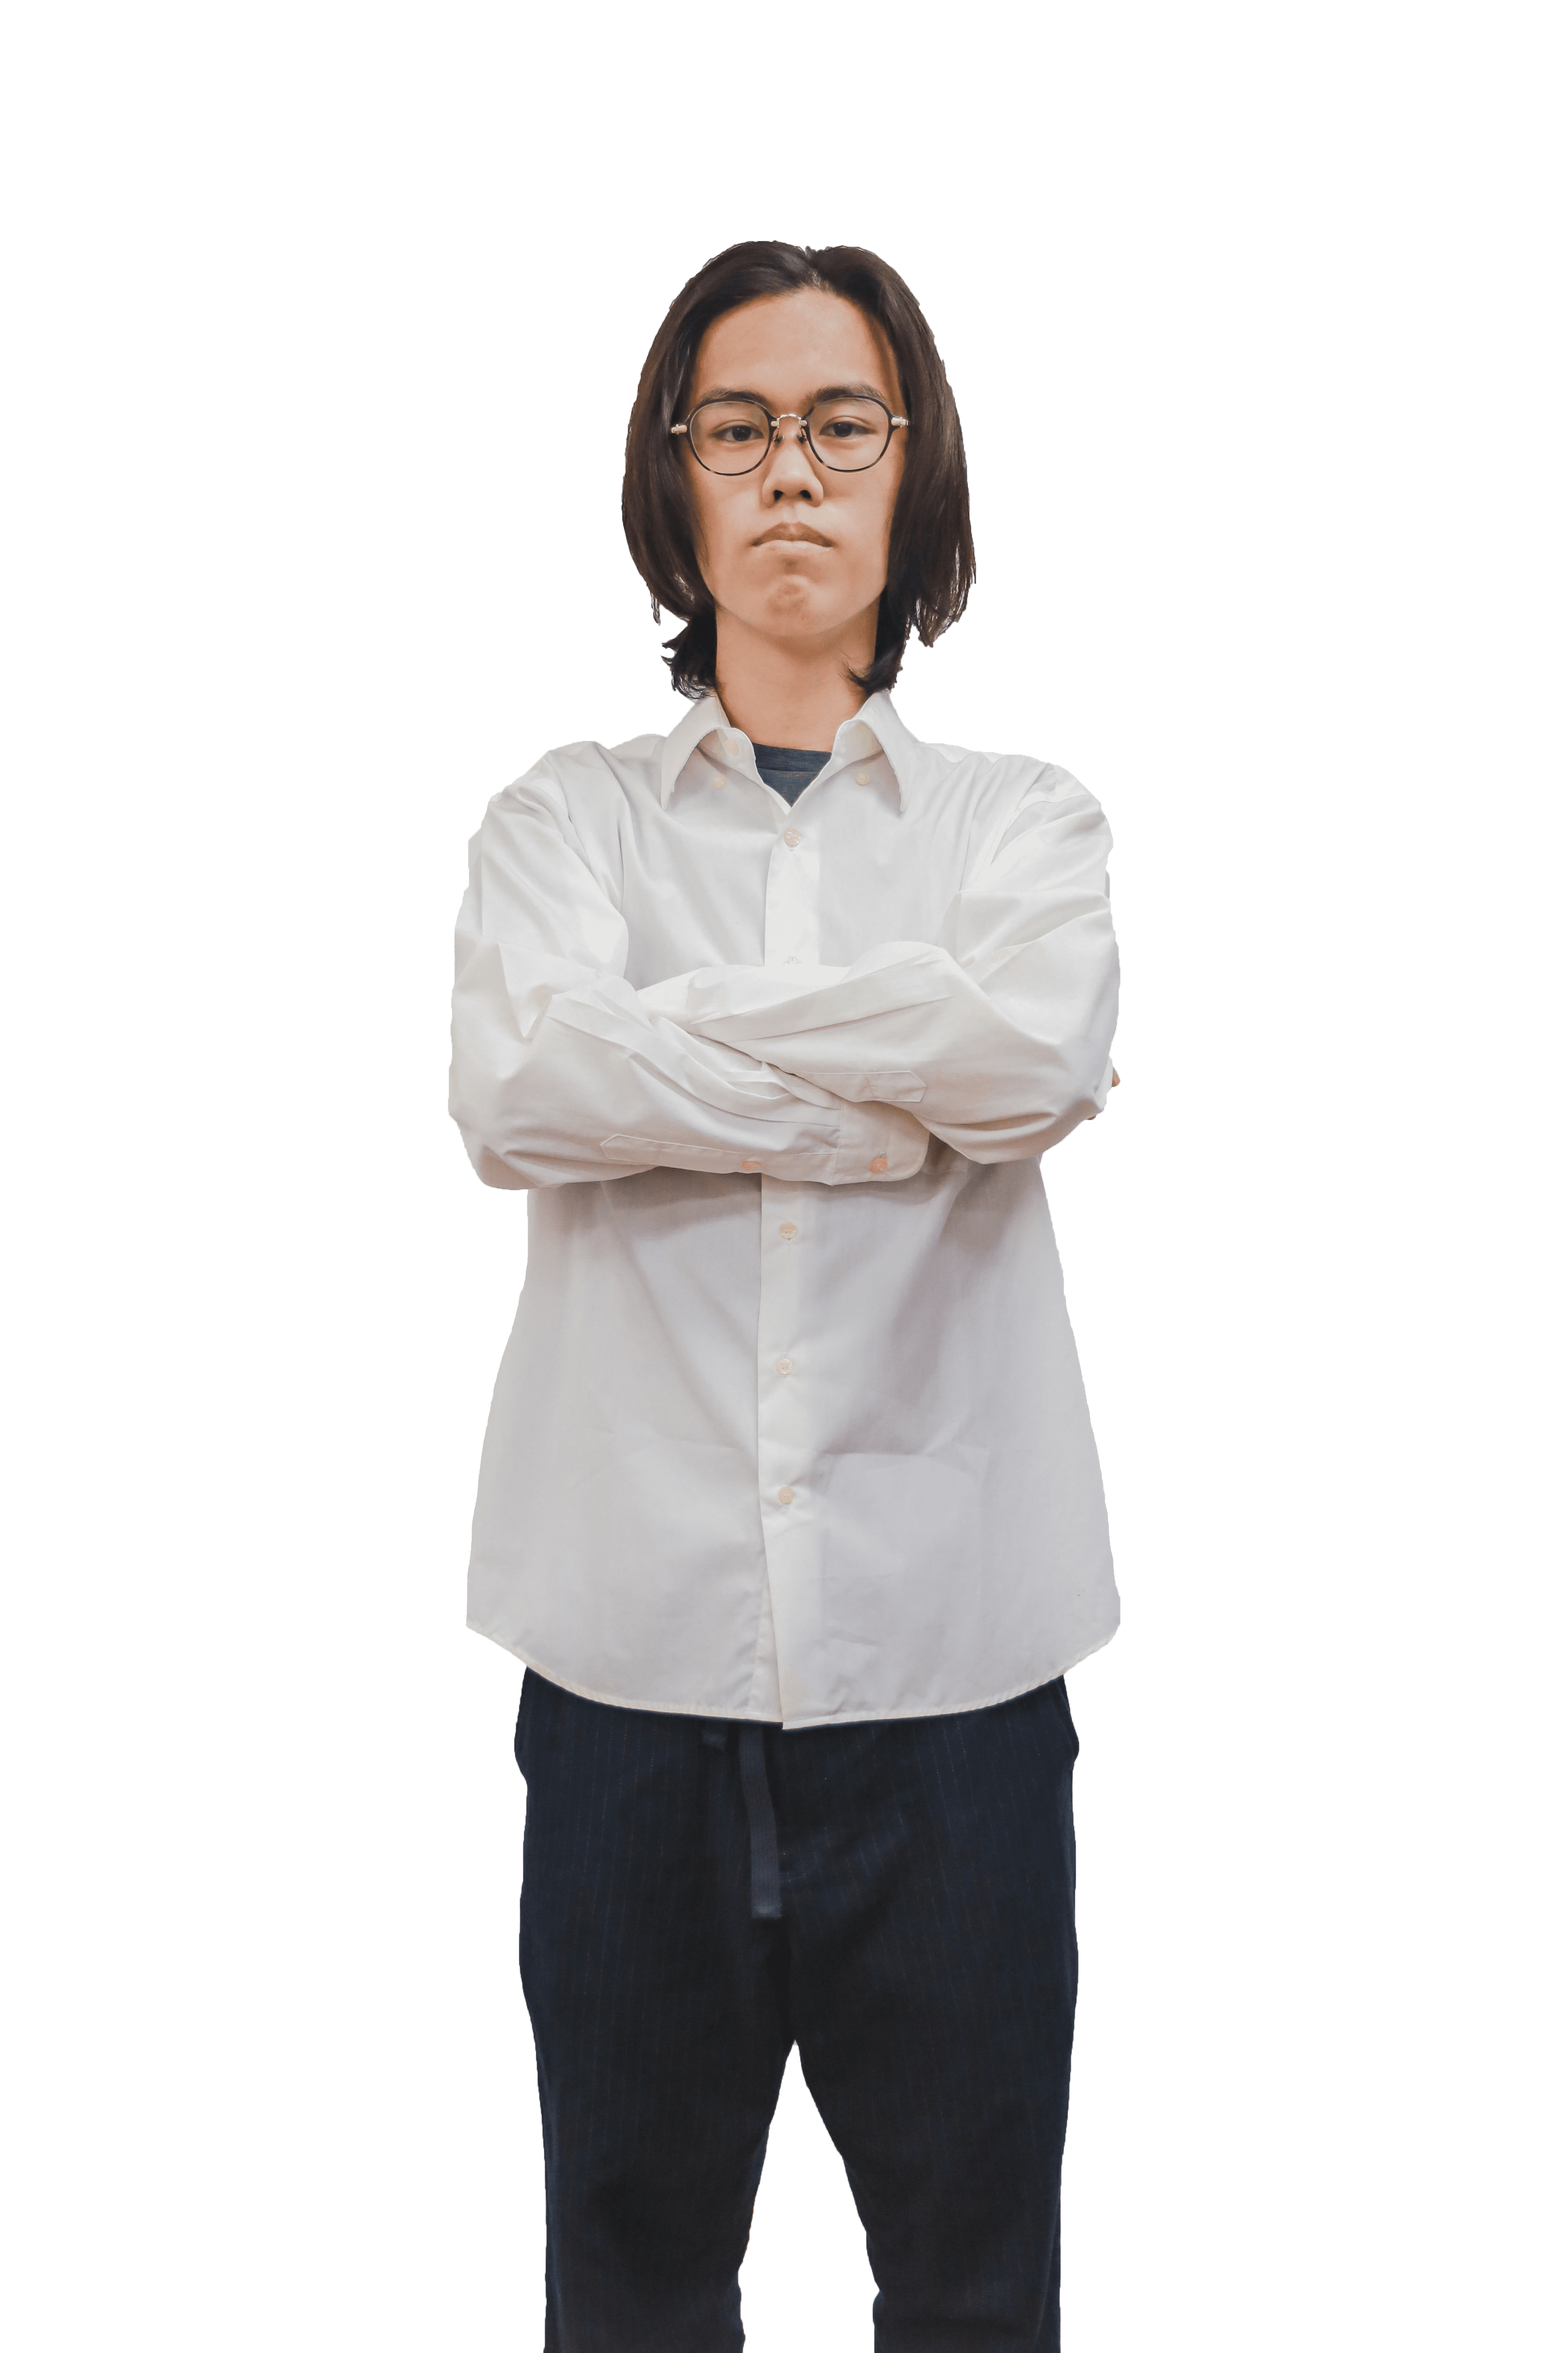
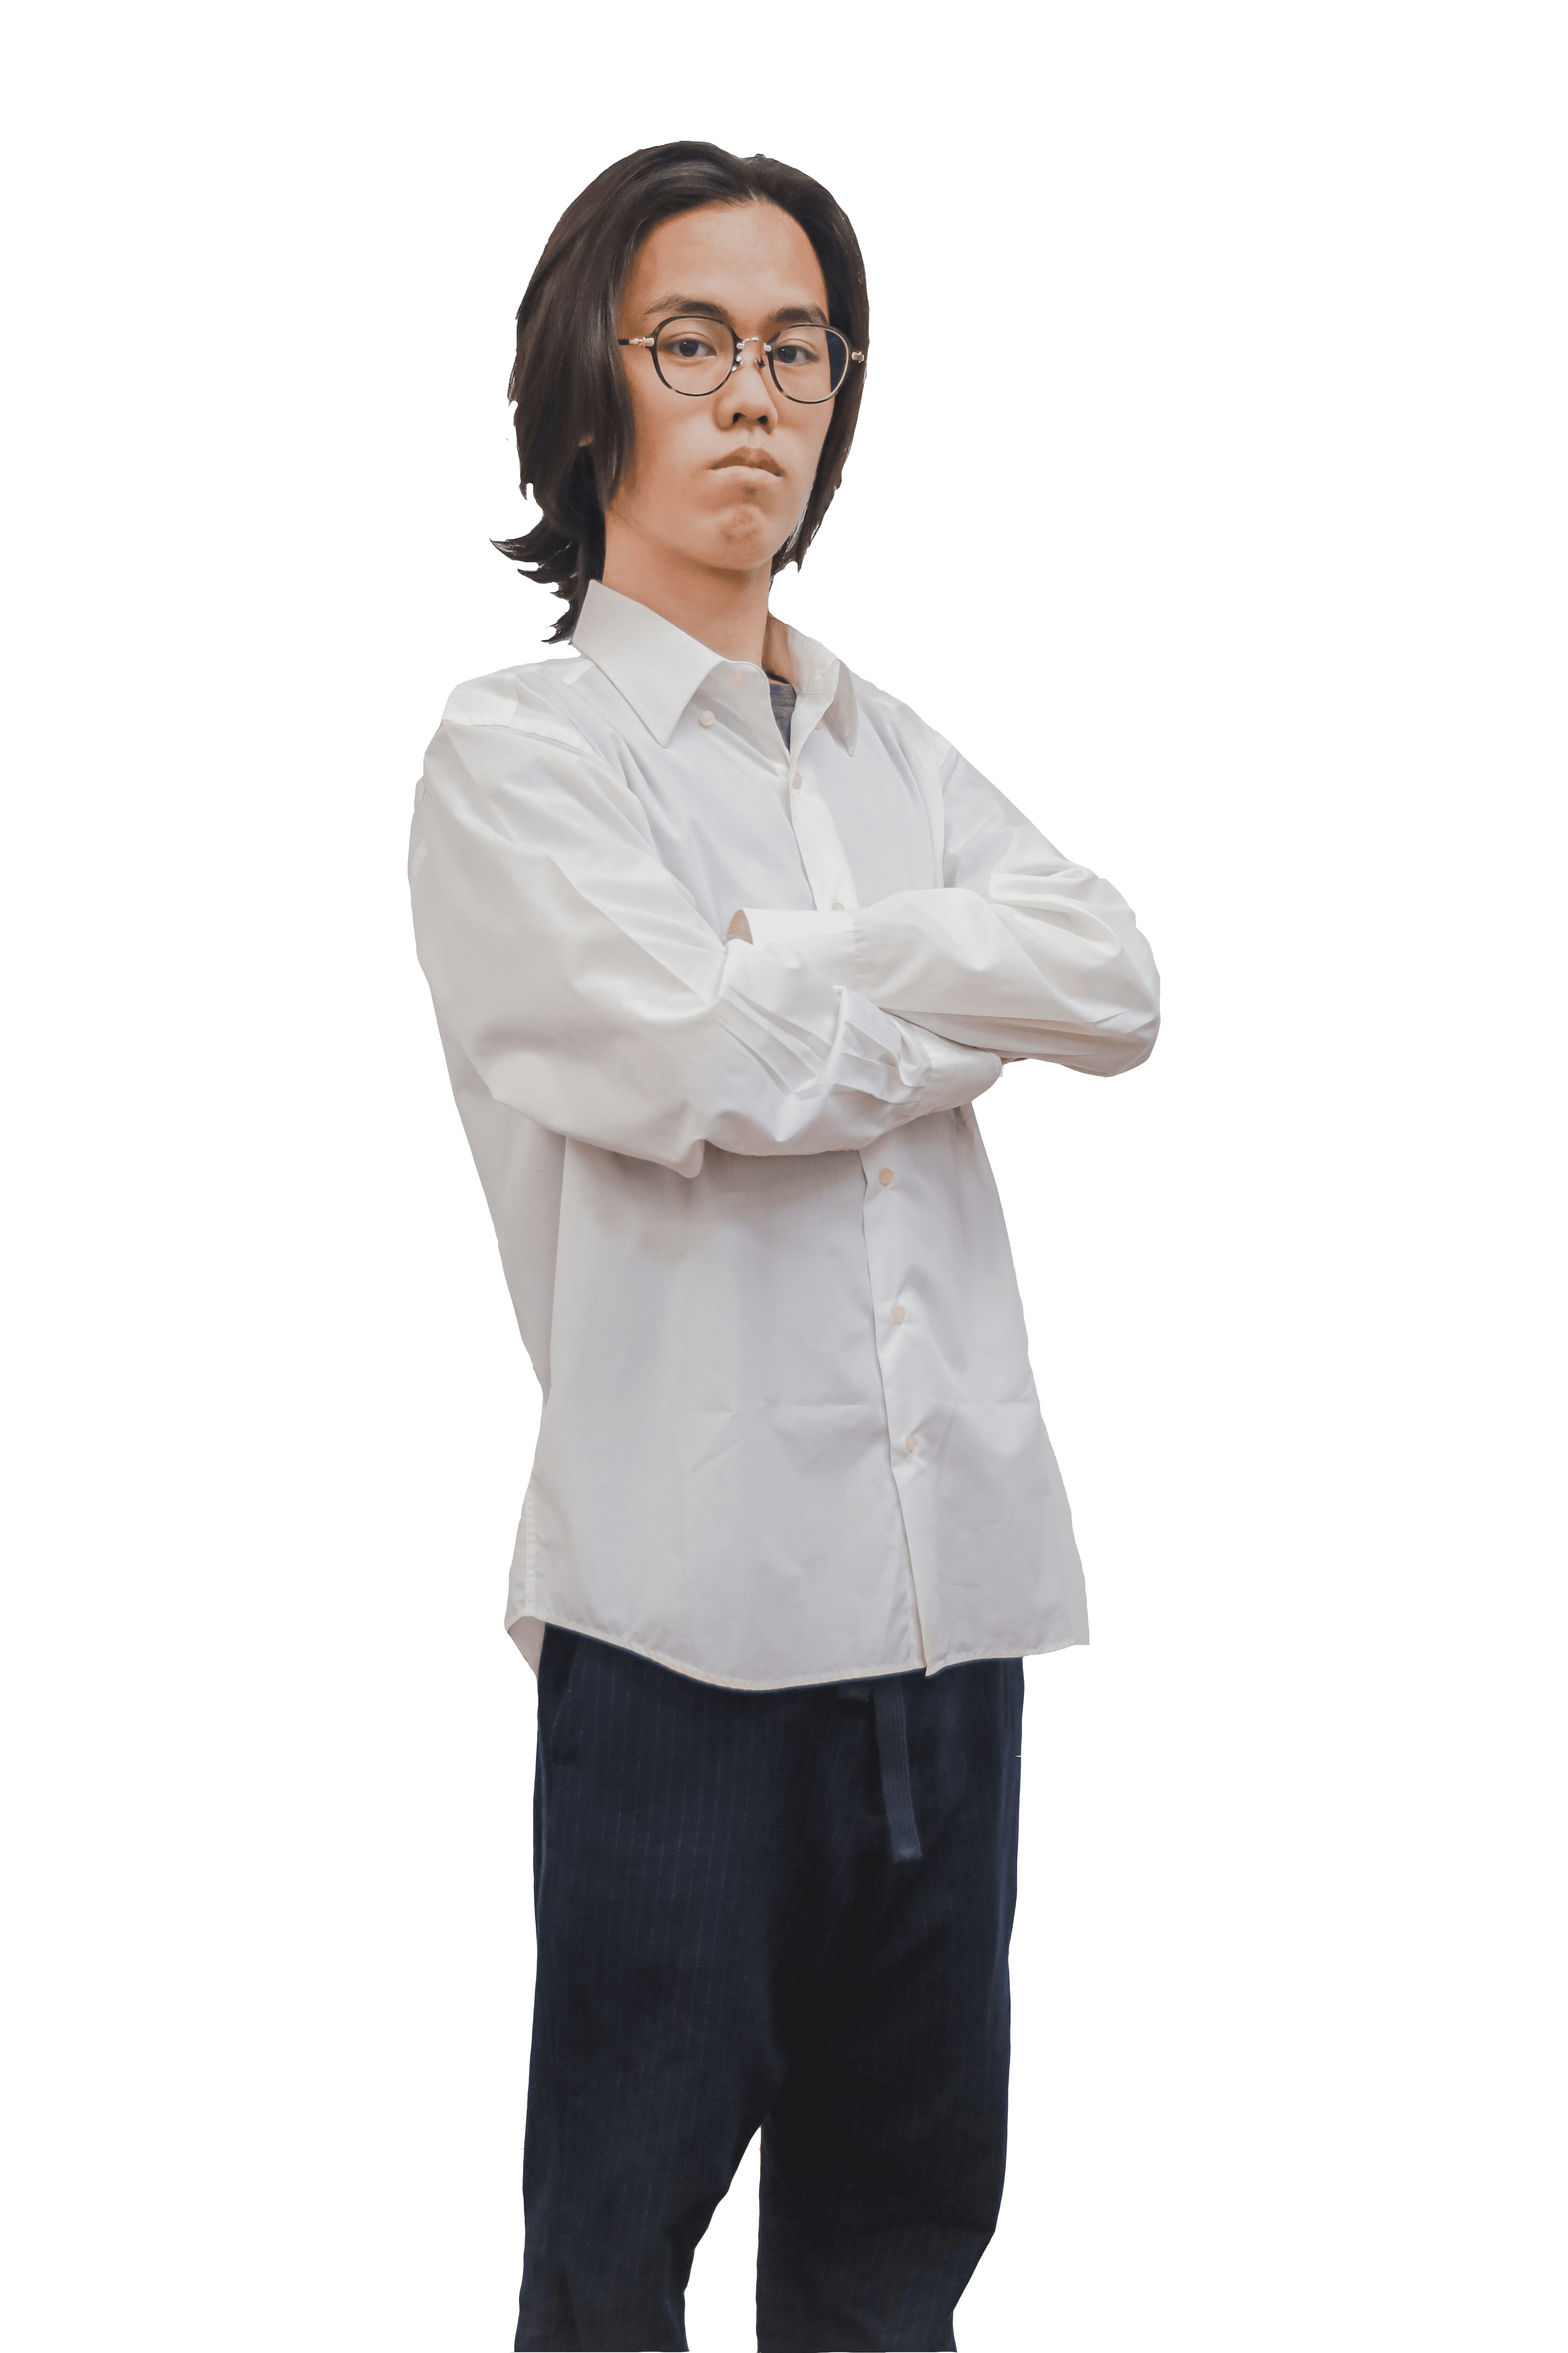
modify photos

Changed region(s): [[0.2488, 0.0624, 0.7463, 1.0], [0.4665, 0.7796, 0.4976, 0.8108], [0.4665, 0.3742, 0.4976, 0.4054]]

diff --git a/about_us/about_us.html b/about_us/about_us.html
@@ -37,7 +37,7 @@
         <div id = "background"></div>
 
         <div> <!-- backrground group image-->
-            <img id = "group-img" src = "./file/groupphoto_1.png">
+            <img id = "group-img" src = "./file/groupphoto_3.png">
         </div>
 
         <div id = "about-details"> <!-- details each person-->
@@ -53,7 +53,7 @@
 
                 <div class = "flex-row">
                     <div id = "c1" class = "card">
-                        <img class = "personal_pic" src = "./file/name1.jpg">
+                        <img class = "personal_pic" src = "./file/name1_2.png">
                         <div class = "card-bg"></div>
                         <div class = "card-detail"> <!--we could set the background color here-->
                             <p class = "personal-name">張仲喆</p><!-- we should wait till the designers to give us the font size of this-->
@@ -71,7 +71,7 @@
                     
 
                     <div class = "card">
-                        <img class = "personal_pic" src = "./file/name2_1.png">
+                        <img class = "personal_pic" src = "./file/name2_2.png">
                         <div class = "card-bg"></div>
                         <div class = "card-detail"> <!--we could set the background color here-->
                             <p class = "personal-name">蔡孟芩</p><!-- we should wait till the designers to give us the font size of this-->
@@ -84,7 +84,7 @@
                     </div>
 
                     <div class = "card">
-                        <img class = "personal_pic" src = "./file/name3_1.png">
+                        <img class = "personal_pic" src = "./file/name3_2.png">
                         <div class = "card-bg"></div>
                         <div class = "card-detail"> <!--we could set the background color here-->
                             <p class = "personal-name">陳亮州</p><!-- we should wait till the designers to give us the font size of this-->
@@ -97,7 +97,7 @@
                     </div>
 
                     <div class = "card">
-                        <img class = "personal_pic" src = "./file/name4_1.png">
+                        <img class = "personal_pic" src = "./file/name4_2.png">
                         <div class = "card-bg"></div>
                         <div class = "card-detail"> <!--we could set the background color here-->
                             <p class = "personal-name">鄭有希</p><!-- we should wait till the designers to give us the font size of this-->
@@ -113,7 +113,7 @@
 
                 <div class="flex-row">
                     <div class = "card">
-                        <img class = "personal_pic" src = "./file/name5_1.png">
+                        <img class = "personal_pic" src = "./file/name5_2.png">
                         <div class = "card-bg"></div>
                         <div class = "card-detail"> <!--we could set the background color here-->
                             <p class = "personal-name">鄭价閎</p><!-- we should wait till the designers to give us the font size of this-->
@@ -126,7 +126,7 @@
                     </div>
 
                     <div class = "card">
-                        <img class = "personal_pic" src = "./file/name6_1.png">
+                        <img class = "personal_pic" src = "./file/name6_2.png">
                         <div class = "card-bg"></div>
                         <div class = "card-detail"> <!--we could set the background color here-->
                             <p class = "personal-name">蕭孟恩</p><!-- we should wait till the designers to give us the font size of this-->
@@ -140,7 +140,7 @@
                     
                     
                     <div class = "card">
-                        <img class = "personal_pic" src = "./file/name7_1.png">
+                        <img class = "personal_pic" src = "./file/name7_2.png">
                         <div class = "card-bg"></div>
                         <div class = "card-detail"> <!--we could set the background color here-->
                             <p class = "personal-name">林雯琪</p><!-- we should wait till the designers to give us the font size of this-->

diff --git a/about_us/about_us.css b/about_us/about_us.css
@@ -63,7 +63,6 @@
     height: auto;
     opacity: 1;
     z-index: 0;
-    content: url(./file/groupphoto_1.png); /* moved the src from html file to here */
 }
 
 /********/
